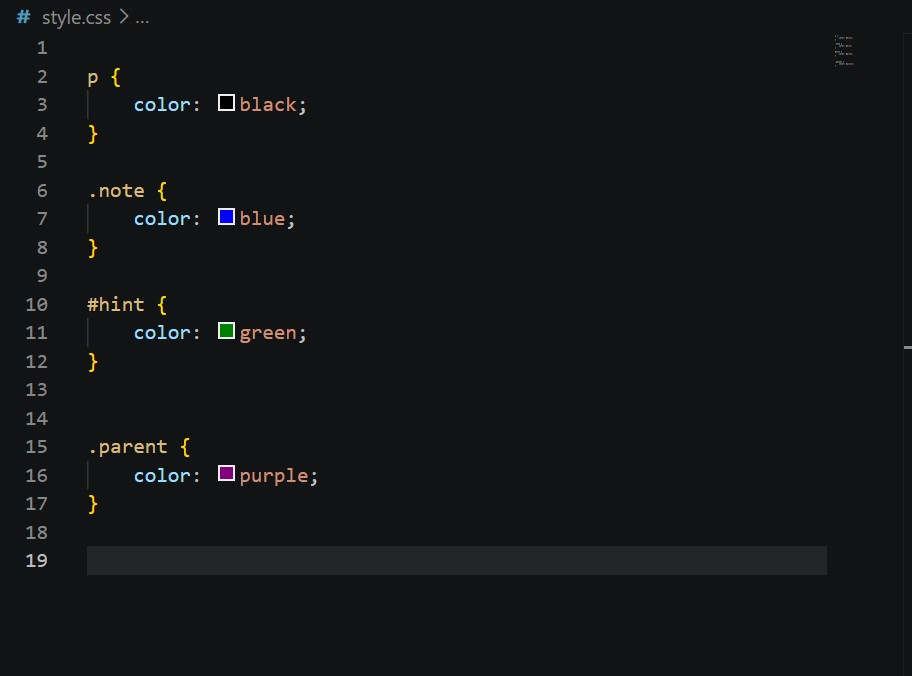
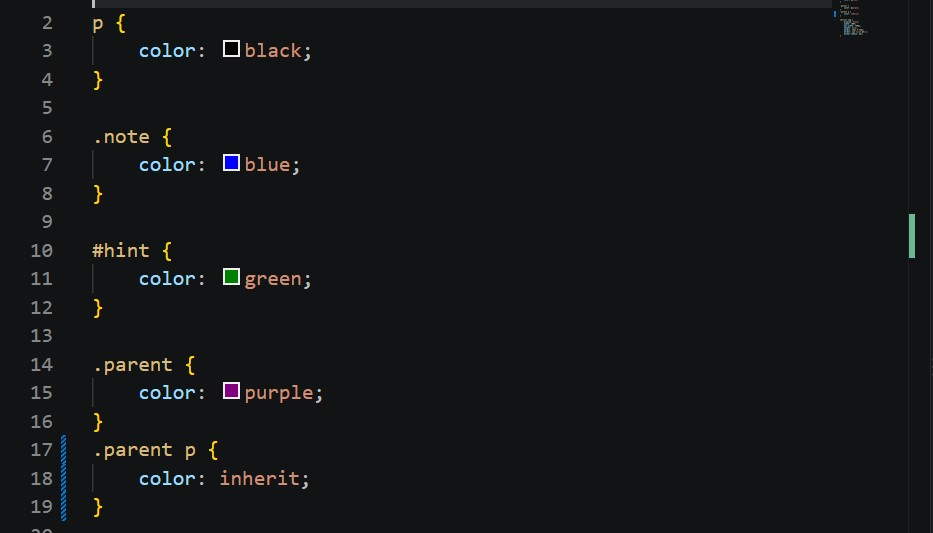
исправила ошибки, теперь p унаследовал цвет от класса .parent

diff --git a/index.html b/index.html
@@ -24,8 +24,8 @@
     <h2>Эксперимент 2: наследование</h2>
 
     <div class="parent">
-        <p>Этот текст демонстрирует наследование цвета.</p>
-    </div>
+    <p>Этот текст наследует цвет от родительского элемента.</p>
+</div>
 <h2>Результаты эксперимента</h2>
 
 <section>
@@ -37,7 +37,7 @@
         поскольку уступают ему по приоритету.
     </p>
     <img src="images/Experiment_1.jpg"
-         alt="Проверка трёх CSS-селекторов в DevTools">
+         alt="CSS-selectors checking through DevTools">
 </section>
 
 <section>
@@ -48,7 +48,7 @@
         Каждому правилу задан свой цвет текста.
     </p>
     <img src="images/Experiment_2.jpg"
-         alt="Исходный CSS-код с тремя селекторами">
+         alt="Original CSS code with three selectors">
 </section>
 
 <section>
@@ -59,18 +59,16 @@
         а правило p осталось перечёркнутым.
     </p>
     <img src="images/Experiment_3.jpg"
-         alt="Результат проверки специфичности после удаления ID">
+         alt="Result of specificity check after removing ID rule">
 </section>
 
 <section>
-    <h3>Скриншот 4. CSS-код после изменения</h3>
+    <h3>Скриншот 4. Элемент .parent после изменения</h3>
     <p>
-        На изображении показан CSS-код после удаления правила #hint.
-        Остались два селектора: .note и p. Класс .note имеет
-        более высокую специфичность, чем селектор тега p.
+       В третьей части эксперимента проверила наследование CSS-свойства color. Родительскому элементу .parent задала цвет purple, а для вложенного абзаца p использовала правило .parent p { color: inherit; }. Значение inherit указывает браузеру наследовать цвет от родительского элемента. В результате текст абзаца стал фиолетовым, несмотря на общее правило p { color: black; }. Проверка через Chrome DevTools во вкладке Computed подтвердила результат.
     </p>
     <img src="images/Experiment_4.jpg"
-         alt="CSS-код с закомментированным правилом hint">
+         alt="CSS-code for parent element">
 </section>
 
 

diff --git a/style.css b/style.css
@@ -14,7 +14,9 @@ p {
 .parent {
     color: purple;
 }
-
+.parent p {
+    color: inherit;
+}
 
 section img {
     display: block;
